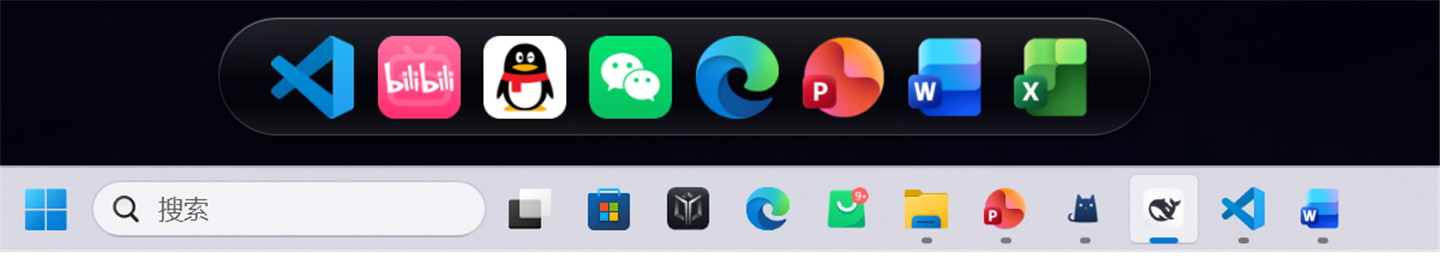
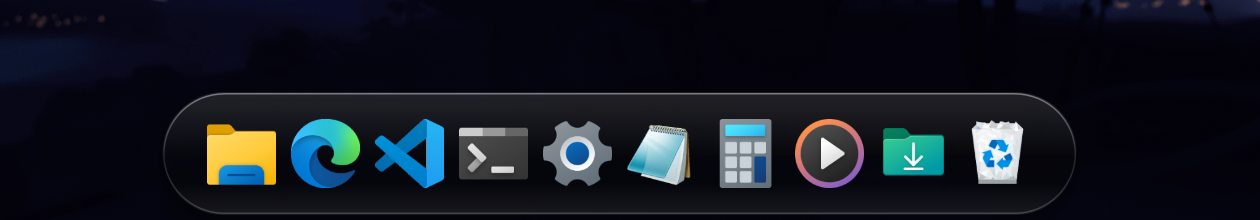
docs: replace screenshots with privacy-safe captures
Screenshots were taken from a real desktop and exposed installed third-party
apps (taskbar pins, dock items, desktop shortcuts). Regenerated from a fresh
default profile: Windows built-in apps only, no taskbar, no desktop icons.
Also removed a real username from CHANGELOG and a local workspace path from
the usage guide.

diff --git a/CHANGELOG.md b/CHANGELOG.md
@@ -9,7 +9,7 @@
 
 | 项目 | 改动 |
 | --- | --- |
-| 日志脱敏 | 新增 `Log.Redact`，写盘前把当前用户目录（以及任何 `X:\Users\<账号>` 形式）替换为 `%USERPROFILE%`，异常堆栈同样处理。实测日志中 `C:\Users\ZL` 出现 **0** 次、`%USERPROFILE%` 出现 4 次 |
+| 日志脱敏 | 新增 `Log.Redact`，写盘前把当前用户目录（以及任何 `X:\Users\<账号>` 形式）替换为 `%USERPROFILE%`，异常堆栈同样处理。实测日志中真实用户目录路径出现 **0** 次、`%USERPROFILE%` 出现 4 次 |
 | 调试钩子 | `InputDebug` 改为编译期开关：只有 `DEBUG` 或显式定义 `ZYDOCK_AUTOMATION` 时才读取 `ZYDOCK_DEBUG_INPUT`；正式 Release 编译为常量 `false`，整个分支被 JIT 消除。实测向正式版窗口连续发送 `DebugDrop / DebugHover / DebugReorder / DebugClick` 四个消息 → 图标数 12→12 不变、日志无 `[input]` 记录 |
 | 拖动排序可靠性 | 改为**按下图标即 `CaptureMouse()`**（非激活分层窗口的隐式捕获不可靠），并新增 `OnLostMouseCapture`：被 Alt+Tab 抢走捕获时回滚预览，不留半拖拽状态。加固后的 Release 版用真实鼠标拖动验证：第 2 位拖到第 4 位并持久化 |
 
